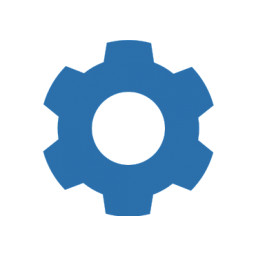
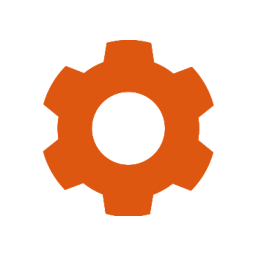
Delete site #81, refactor siteview, confirm delete

Changed region(s): [[0.1562, 0.1562, 0.8438, 0.8438]]

diff --git a/on/css/panel.css b/on/css/panel.css
@@ -444,6 +444,15 @@ div.panel a.action.settings:hover {
 	background-image: url('../images/illu/settings_hover.png');
 }
 
+div.panel a.action.delete {
+	background-image: url('../images/illu/delete.png');
+}
+
+div.panel a.action.delete:hover {
+	color: #eb782b;
+	background-image: url('../images/illu/delete_hover.png');
+}
+
 div.panel a.action.buy {
 	background-image: url('../images/illu/buy.png');
 }
@@ -587,7 +596,7 @@ div.panel div.database span.type {
 }
 
 div.panel div.info {
-	width: 550px;
+	width: 638px;
 	height: 50px;
 	border-top: 1px solid #e5e5e5;
 	border-left: 1px solid #e5e5e5;

diff --git a/on/panel/site/config.php b/on/panel/site/config.php
@@ -11,82 +11,139 @@ $site = $site[0];
 
 $content .= "
 	<div class=\"panel\">
+		<div class=\"top\">
+			<div class=\"left\" style=\"width: 500px;\">
+				<span style=\"font-size: 38px; display: block; margin-bottom: 15px;\">{$site['hostname']}</span>
+				<span style=\"font-size: 18px; color: #5ac940; display: block; margin-bottom: 10px;\">{$lang['disk']} {$site['size']} {$lang['mb']}</span>
+			</div>
+			<div class=\"right\" style=\"width: 600px; float: right; text-align: right;\">
+				<a class=\"action settings big\" href=\"#\" onclick=\"\">
+					{$lang['settings']}
+				</a>
+				<a class=\"action pass big\" href=\"#\" onclick=\"$('#changepassword').dialog('open'); return false;\">
+					{$lang['password']}
+				</a>
+				<a class=\"action delete big\" href=\"#\" onclick=\"$('#delete').dialog('open'); return false;\">
+					{$lang['delete']}
+				</a>
+			</div>
+			<div class=\"clear\"></div><br /><br />
+		</div>
 		<div class=\"container\">
 			<div class=\"left\" style=\"width: 600px; margin-top: 5px;\">
-				<h1 class=\"dark\">{$site['hostname']}</h1>
-				<br />
-				<h2 class=\"dark thin\">{$lang['infos']}</h2>
-				<div class=\"info\" style=\"border-bottom: 1px solid #e5e5e5;\">
-					<span style=\"float: left; display: block; width: 200px; font-size: 15px; height: 30px; padding: 10px; \">
-						<img src=\"/{$GLOBALS['CONFIG']['SITE']}/images/icons/link.png\" alt=\"\" style=\"float: left; display: block;\" />
-						<span style=\"float: left; display: block; padding: 4px 5px 5px 10px; color: #de5711;\">{$lang['access']}</span>
-					</span>
-					<span style=\"float: right; display: block; width: 330px; text-align: center; padding: 13px 0 0 0; font-size: 18px; background-color: #f9f9f9; height: 37px;\"><a href=\"http://{$site['hostname']}\">{$lang['access_text']}</a></span>
-				</div>
+				<h2 class=\"dark\">{$lang['access']}</h2>
 				<div class=\"info\" style=\"border-bottom: 1px solid #e5e5e5;\">
 					<span style=\"float: left; display: block; width: 200px; font-size: 15px; height: 30px; padding: 10px; \">
 						<img src=\"/{$GLOBALS['CONFIG']['SITE']}/images/icons/ftp.png\" alt=\"\" style=\"float: left; display: block;\" />
 						<span style=\"float: left; display: block; padding: 4px 5px 5px 10px; color: #de5711;\">{$lang['ftp']}</span>
 					</span>
-					<span style=\"float: right; display: block; width: 330px; text-align: center; padding: 13px 0 0 0; font-size: 18px; background-color: #f9f9f9; height: 37px;\">ftp.olympe.in</span>
+					<span style=\"float: right; display: block; width: 390px; text-align: center; padding: 13px 0 0 0; font-size: 18px; background-color: #f9f9f9; height: 37px;\">ftp.olympe.in</span>
 				</div>
 				<div class=\"info\" style=\"border-bottom: 1px solid #e5e5e5;\">
 					<span style=\"float: left; display: block; width: 200px; font-size: 15px; height: 30px; padding: 10px; \">
 						<img src=\"/{$GLOBALS['CONFIG']['SITE']}/images/icons/user.png\" alt=\"\" style=\"float: left; display: block;\" />
 						<span style=\"float: left; display: block; padding: 4px 5px 5px 10px; color: #de5711;\">{$lang['login']}</span>
 					</span>
-					<span style=\"float: right; display: block; width: 330px; text-align: center; padding: 13px 0 0 0; font-size: 18px; background-color: #f9f9f9; height: 37px;\">{$site['name']}</span>
+					<span style=\"float: right; display: block; width: 390px; text-align: center; padding: 13px 0 0 0; font-size: 18px; background-color: #f9f9f9; height: 37px;\">{$site['name']}</span>
 				</div>
 				<br /><br />
-				<h2 class=\"dark thin\">{$lang['directory']}</h2>
-				<form action=\"/panel/site/config_action\" method=\"post\">
-					<input type=\"hidden\" name=\"id\" value=\"{$site['id']}\" />
-					<fieldset>
-						<input type=\"text\" name=\"description\" value=\"".($site['description']?"{$site['description']}":"{$lang['desc']}")."\" style=\"width: 450px;\" />
-						<span class=\"help-block\">{$lang['desc_help']}</span>
-					</fieldset>
-					<fieldset>
-						<select name=\"category\" style=\"width: 468px;\">
-							<option value=\"1\">{$lang['CAT_1']}</option>
-							<option value=\"2\">{$lang['CAT_2']}</option>
-							<option value=\"3\">{$lang['CAT_3']}</option>
-							<option value=\"4\">{$lang['CAT_4']}</option>
-							<option value=\"5\">{$lang['CAT_5']}</option>
-							<option value=\"6\">{$lang['CAT_6']}</option>
-							<option value=\"7\">{$lang['CAT_7']}</option>
-							<option value=\"8\">{$lang['CAT_8']}</option>
-						</select>
-						<span class=\"help-block\">{$lang['cat_help']}</span>
-					</fieldset>
-					<fieldset>	
-						<input autofocus type=\"submit\" value=\"{$lang['update']}\" />
-					</fieldset>
-				</form>	
+				<h2 class=\"dark\">{$lang['urls']}</h2>
+				<div class=\"info\" style=\"border-bottom: 1px solid #e5e5e5;\">
+					<span style=\"float: left; display: block; width: 200px; font-size: 15px; height: 30px; padding: 10px; \">
+						<img src=\"/{$GLOBALS['CONFIG']['SITE']}/images/icons/link.png\" alt=\"\" style=\"float: left; display: block;\" />
+						<span style=\"float: left; display: block; padding: 4px 5px 5px 10px; color: #de5711;\">{$lang['main']}</span>
+					</span>
+					<span style=\"float: right; display: block; width: 390px; text-align: center; padding: 13px 0 0 0; font-size: 18px; background-color: #f9f9f9; height: 37px;\"><a href=\"http://{$site['name']}.olympe.in\">{$site['name']}.olympe.in</a></span>
+				</div>
+				<div class=\"info\" style=\"border-bottom: 1px solid #e5e5e5;\">
+					<span style=\"float: left; display: block; width: 200px; font-size: 15px; height: 30px; padding: 10px; \">
+						<img src=\"/{$GLOBALS['CONFIG']['SITE']}/images/icons/link.png\" alt=\"\" style=\"float: left; display: block;\" />
+						<span style=\"float: left; display: block; padding: 4px 5px 5px 10px; color: #de5711;\">{$lang['redirect']}</span>
+					</span>
+					<span style=\"float: right; display: block; width: 390px; text-align: center; padding: 13px 0 0 0; font-size: 18px; background-color: #f9f9f9; height: 37px;\"><a href=\"http://{$site['name']}.olympe-network.com\">{$site['name']}.olympe-network.com</a></span>
+				</div>
+				<div class=\"info\" style=\"border-bottom: 1px solid #e5e5e5;\">
+					<span style=\"float: left; display: block; width: 200px; font-size: 15px; height: 30px; padding: 10px; \">
+						<img src=\"/{$GLOBALS['CONFIG']['SITE']}/images/icons/link.png\" alt=\"\" style=\"float: left; display: block;\" />
+						<span style=\"float: left; display: block; padding: 4px 5px 5px 10px; color: #de5711;\">{$lang['redirect']}</span>
+					</span>
+					<span style=\"float: right; display: block; width: 390px; text-align: center; padding: 13px 0 0 0; font-size: 18px; background-color: #f9f9f9; height: 37px;\"><a href=\"http://{$site['name']}.o-n.fr\">{$site['name']}.o-n.fr</a></span>
+				</div>
 			</div>
 			<div class=\"right border\" style=\"width: 340px; padding-left: 60px; margin-left: 40px; margin-top: 5px;\">
-				<h1 class=\"dark\" style=\"text-align: right; font-size: 20px; color: #007b31; font-weight: 200;\"><span style=\"color: #6c6c6c\">{$site['homeDirectory']}</span> {$site['size']} {$lang['mb']}</h1>
-				<br />
+				<h2 class=\"dark\">{$lang['view']}</h2>
 				<img style=\"border: 1px solid #cecece; padding: 10px; border-radius: 3px;  text-align: right; float: right;\" src=\"/{$GLOBALS['CONFIG']['SITE']}/images/sites/?url={$site['hostname']}\" />
 				<div class=\"clear\"></div><br /><br />
-				<h2 class=\"dark thin\">{$lang['password']}</h2>
-				<form action=\"/panel/site/config_action\" method=\"post\">
-					<input type=\"hidden\" name=\"id\" value=\"{$site['id']}\" />
-					<fieldset>
-						<input type=\"password\" name=\"pass\" />
-						<span class=\"help-block\">{$lang['pass_help']}</span>
-					</fieldset>
-					<fieldset>
-						<input type=\"password\" name=\"confirm\" />
-						<span class=\"help-block\">{$lang['confirm_help']}</span>
-					</fieldset>
-					<fieldset>	
-						<input autofocus type=\"submit\" value=\"{$lang['update']}\" />
-					</fieldset>
-				</form>	
 			</div>
 			<div class=\"clear\"></div><br />
 		</div>
 	</div>
+	<div id=\"delete\" class=\"floatingdialog\">
+		<h3 class=\"center\">{$lang['delete']}</h3>
+		<p style=\"text-align: center;\">{$lang['delete_text']}</p>
+		<div class=\"form-small\">		
+			<form action=\"/panel/site/del_action\" method=\"get\" class=\"center\">
+				<input id=\"id\" type=\"hidden\" value=\"{$site['id']}\" name=\"id\" />
+				<fieldset autofocus>	
+					<input type=\"submit\" value=\"{$lang['delete_now']}\" />
+				</fieldset>
+			</form>
+		</div>
+	</div>
+	<div id=\"changepassword\" class=\"floatingdialog\">
+		<h3 class=\"center\">{$lang['changepassword']}</h3>
+		<p style=\"text-align: center;\">{$lang['changepassword_text']}</p>
+		<div class=\"form-small\">		
+			<form action=\"/panel/site/config_action\" method=\"post\" class=\"center\">
+				<input type=\"hidden\" name=\"id\" value=\"{$site['id']}\" />
+				<fieldset>
+					<input type=\"password\" name=\"pass\" />
+					<span class=\"help-block\">{$lang['pass_help']}</span>
+				</fieldset>
+				<fieldset>
+					<input type=\"password\" name=\"confirm\" />
+					<span class=\"help-block\">{$lang['confirm_help']}</span>
+				</fieldset>
+				<fieldset>	
+					<input autofocus type=\"submit\" value=\"{$lang['update']}\" />
+				</fieldset>
+			</form>
+		</div>
+	</div>
+	<div id=\"settings\" class=\"floatingdialog\">
+		<h3 class=\"center\">{$lang['settings']}</h3>
+		<p style=\"text-align: center;\">{$lang['settings_text']}</p>
+		<div class=\"form-small\">		
+			<form action=\"/panel/site/config_action\" method=\"post\" class=\"center\">	
+				<input type=\"hidden\" name=\"id\" value=\"{$site['id']}\" />
+				<fieldset>
+					<input type=\"text\" name=\"description\" value=\"".($site['description']?"{$site['description']}":"{$lang['desc']}")."\" style=\"width: 504px;\" />
+					<span class=\"help-block\">{$lang['desc_help']}</span>
+				</fieldset>
+				<fieldset>
+					<select name=\"category\" style=\"width: 520px;\">
+						<option ".($site['category']==1?"selected":"")." value=\"1\">{$lang['CAT_1']}</option>
+						<option ".($site['category']==2?"selected":"")." value=\"2\">{$lang['CAT_2']}</option>
+						<option ".($site['category']==3?"selected":"")." value=\"3\">{$lang['CAT_3']}</option>
+						<option ".($site['category']==4?"selected":"")." value=\"4\">{$lang['CAT_4']}</option>
+						<option ".($site['category']==5?"selected":"")." value=\"5\">{$lang['CAT_5']}</option>
+						<option ".($site['category']==6?"selected":"")." value=\"6\">{$lang['CAT_6']}</option>
+						<option ".($site['category']==7?"selected":"")." value=\"7\">{$lang['CAT_7']}</option>
+						<option ".($site['category']==8?"selected":"")." value=\"8\">{$lang['CAT_8']}</option>
+					</select>
+					<span class=\"help-block\">{$lang['cat_help']}</span>
+				</fieldset>
+				<fieldset>	
+					<input autofocus type=\"submit\" value=\"{$lang['update']}\" />
+				</fieldset>
+			</form>
+		</div>
+	</div>
+	<script>
+		newFlexibleDialog('settings', 550);
+		newFlexibleDialog('changepassword', 550);
+		newFlexibleDialog('delete', 550);
+	</script>
 	";
 
 /* ========================== OUTPUT PAGE ========================== */

diff --git a/on/panel/domain.php b/on/panel/domain.php
@@ -63,7 +63,7 @@ if( count($domains) > 0 )
 							<td>".($d['destination']?"{$d['destination']}":"{$d['homeDirectory']}")."</td>
 							<td style=\"width: 80px; text-align: center;\">
 								<a href=\"/panel/domain/config?id={$d['id']}\" title=\"\"><img class=\"link\" src=\"/{$GLOBALS['CONFIG']['SITE']}/images/icons/small/settings.png\" alt=\"\" /></a>
-								<a href=\"/panel/domain/del_action?id={$d['id']}\" title=\"\"><img class=\"link\" src=\"/{$GLOBALS['CONFIG']['SITE']}/images/icons/small/close.png\" alt=\"\" /></a>
+								<a href=\"#\" onclick=\"$('#id').val('{$d['id']}'); $('#delete').dialog('open'); return false;\" title=\"\"><img class=\"link\" src=\"/{$GLOBALS['CONFIG']['SITE']}/images/icons/small/close.png\" alt=\"\" /></a>
 							</td>
 						</tr>
 		";
@@ -74,7 +74,7 @@ $content .= "
 					</table>
 				</div>
 			</div>
-			<div id=\"new\" style=\"display: none;\" class=\"floatingdialog\">
+			<div id=\"new\" class=\"floatingdialog\">
 				<h3 class=\"center\">{$lang['new']}</h3>
 				<p style=\"text-align: center;\">{$lang['new_text']}</p>
 				<div class=\"form-small\">		
@@ -107,8 +107,21 @@ $content .= "
 					</form>
 				</div>
 			</div>
+			<div id=\"delete\" class=\"floatingdialog\">
+				<h3 class=\"center\">{$lang['delete']}</h3>
+				<p style=\"text-align: center;\">{$lang['delete_text']}</p>
+				<div class=\"form-small\">		
+					<form action=\"/panel/domain/del_action\" method=\"get\" class=\"center\">
+						<input id=\"id\" type=\"hidden\" value=\"\" name=\"id\" />
+						<fieldset autofocus>	
+							<input type=\"submit\" value=\"{$lang['delete_now']}\" />
+						</fieldset>
+					</form>
+				</div>
+			</div>
 			<script>
-				newDialog('new', 550, 420);
+				newFlexibleDialog('new', 550);
+				newFlexibleDialog('delete', 550);
 			</script>
 ";
 

diff --git a/on/panel/database.php b/on/panel/database.php
@@ -93,15 +93,15 @@ foreach( $databases as $d )
 			<form action=\"/panel/database/del_action\" method=\"post\" class=\"center\">
 				<input id=\"database2\" type=\"hidden\" name=\"database\" value=\"\" />
 				<fieldset>	
-					<input type=\"submit\" value=\"{$lang['delete']}\"/>
+					<input autofocus type=\"submit\" value=\"{$lang['delete']}\"/>
 				</fieldset>
 			</form>
 			
 		</div>
 	</div>	
 	<script>
-		newDialog('new', 550, 450);
-		newDialog('config', 550, 440);
+		newFlexibleDialog('new', 550);
+		newFlexibleDialog('config', 550);
 	</script>
 ";
 

diff --git a/on/panel/site/config_action.php b/on/panel/site/config_action.php
@@ -6,7 +6,16 @@ if( !defined('PROPER_START') )
 	exit;
 }
 
-api::send('self/site/update', array('site'=>$_POST['id'], 'pass'=>$_POST['password']));
+$params = array('site'=>$_POST['id']);
+
+if( $_POST['passowrd'] )
+	$params['password'] = $_POST['password'];
+if( $_POST['description'] )
+	$params['description'] = $_POST['description'];
+if( $_POST['category'] )
+	$params['category'] = $_POST['category'];
+	
+api::send('self/site/update', $params);
 
 $_SESSION['MESSAGE']['TYPE'] = 'success';
 $_SESSION['MESSAGE']['TEXT']= $lang['success'];	

diff --git a/on/images/sites/index.php b/on/images/sites/index.php
@@ -9,7 +9,7 @@ if( file_exists($file) )
 	$size = filesize ($file);
 	$current = time();
 	
-	if( $mod <= $current-(3600*24*7) || $size < 2000 )
+	if( $mod <= $current-(3600*24*7) || $size < 10 )
 	{
 		$address = 'http://api.snapito.com/?delay=0&freshness=0&size=sc&fast=false&timestamp=false&type=PNG&url=' . $url;
 		$content = file_get_contents($address);

diff --git a/on/panel/domain/config_action.php b/on/panel/domain/config_action.php
@@ -14,6 +14,6 @@ $_SESSION['MESSAGE']['TEXT']= $lang['success'];
 if( isset($_GET['redirect']) )
 	template::redirect($_GET['redirect']);
 else
-	$template->redirect('/panel/domain');
+	$template->redirect('/panel/domain/config?id=' . security::encode($_POST['id']));
 	
 ?>

diff --git a/on/panel/domain/config.php b/on/panel/domain/config.php
@@ -119,8 +119,8 @@ $content .= "
 					</form>
 				</div>
 			<script>
-				newDialog('new', 550, 280);
-				newDialog('config', 550, 290);
+				newFlexibleDialog('new', 550);
+				newFlexibleDialog('config', 550);
 			</script>
 ";
 
